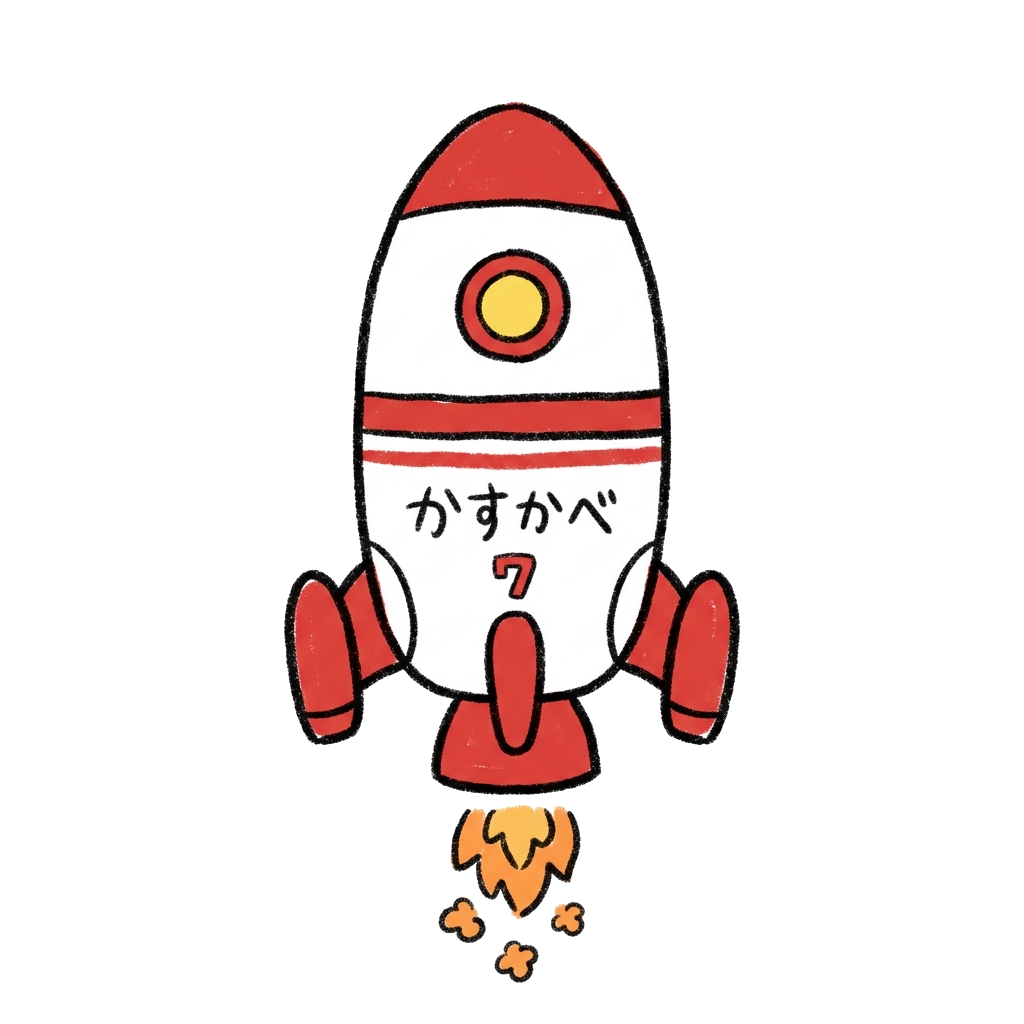
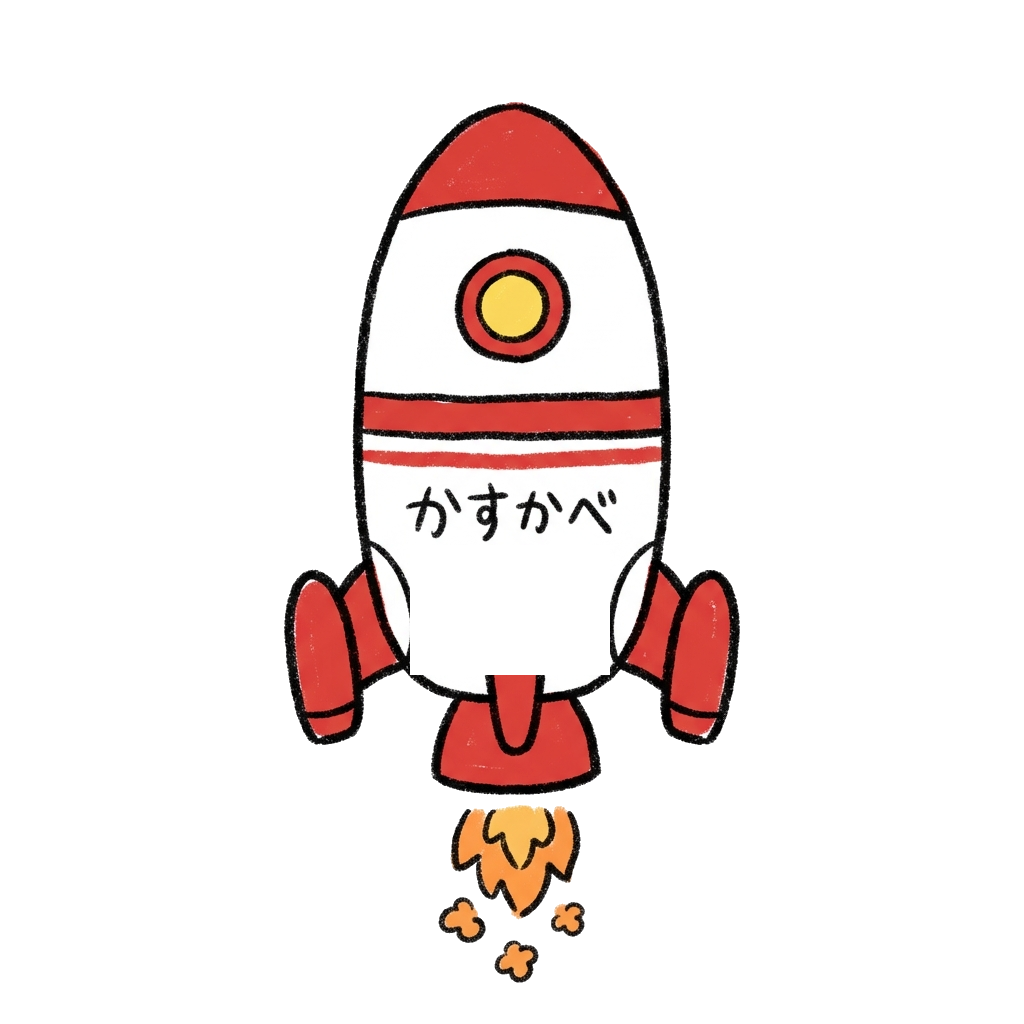
Erase Japanese text from rocket body and scale it up further (36% width, 1.45 scale) so buttons fit inside the body

Changed region(s): [[0.4688, 0.5312, 0.5312, 0.6562], [0.375, 0.5938, 0.4062, 0.6562]]

diff --git a/css/main.css b/css/main.css
@@ -37,8 +37,8 @@ html, body {
 .cosmic-rocket-container {
     position: absolute;
     top: 0%;
-    left: 0%;
-    width: 31%;
+    left: -2.5%;
+    width: 36%;
     height: 100%;
     z-index: 5;
     pointer-events: none;
@@ -51,7 +51,7 @@ html, body {
     width: 100%;
     height: 100%;
     object-fit: contain;
-    transform: scale(1.25); /* Phóng to để chứa trọn vẹn các nút bấm */
+    transform: scale(1.45); /* Phóng to hơn để thân tên lửa đủ to chứa trọn các nút bấm */
 }
 
 /* ==========================================